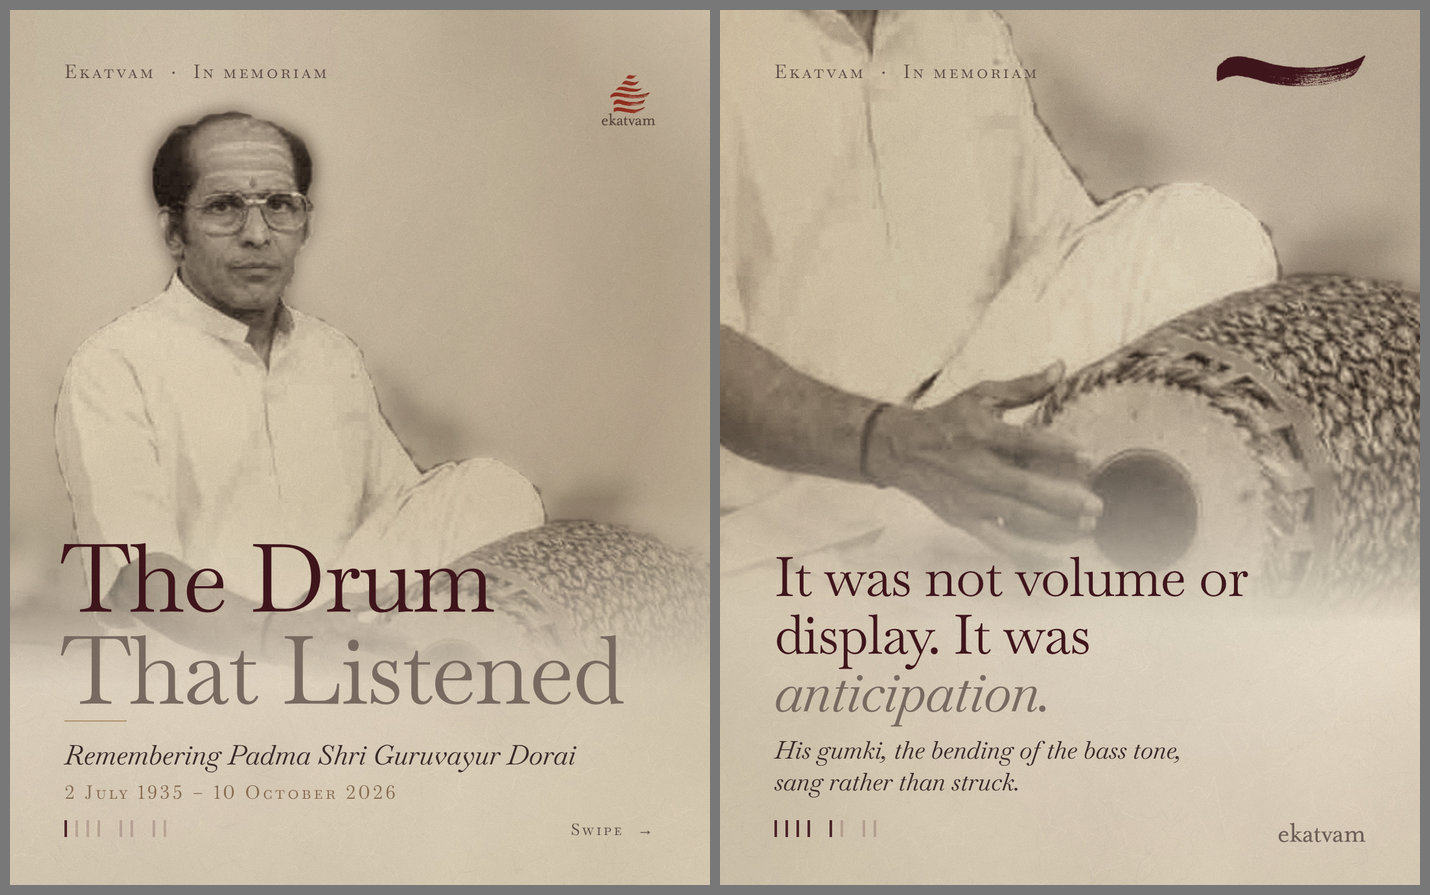
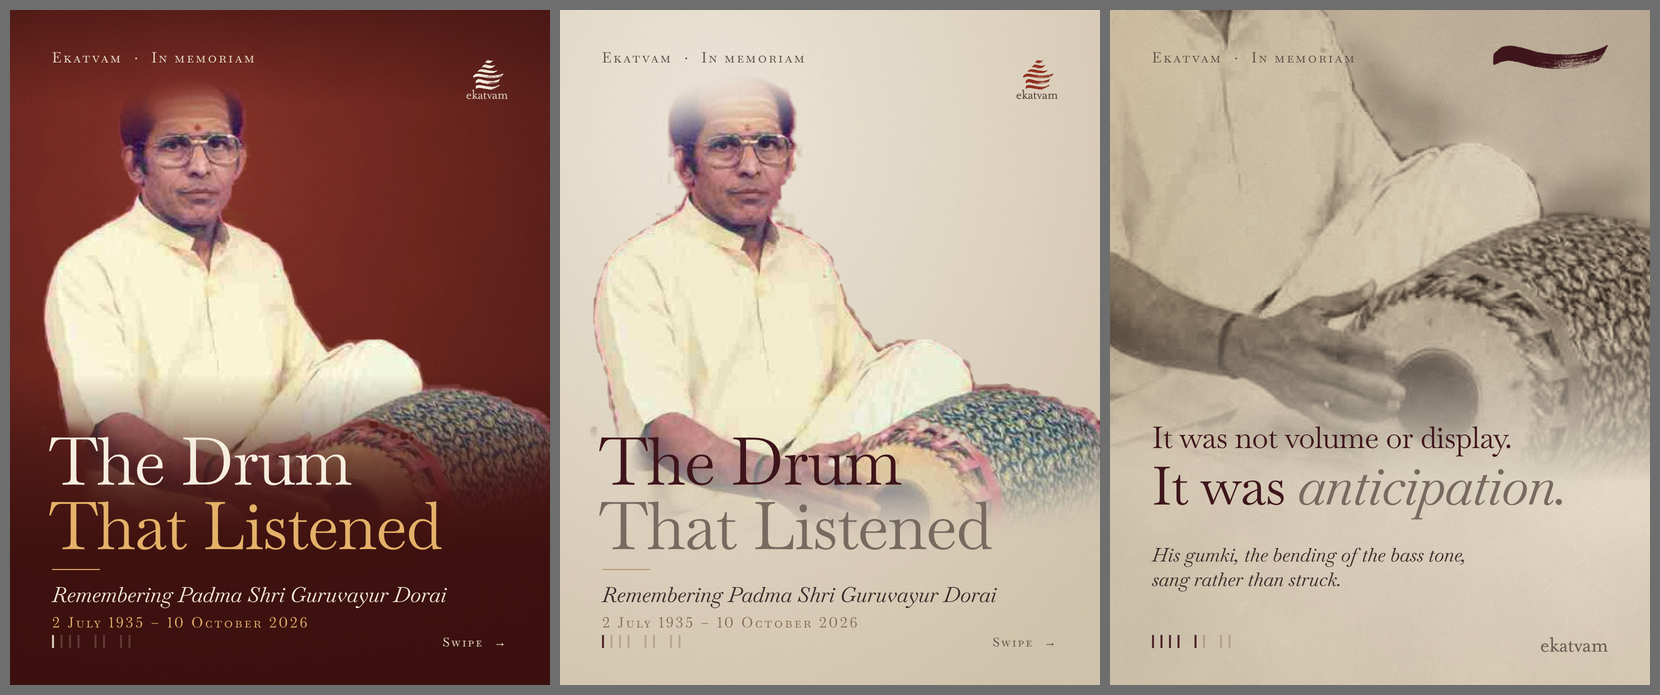
Carousel v03: burgundy real-colour cover with protected face, anticipation on one line
Claude-Session: https://claude.ai/code/session_01QTduMXH4PQaPUWUfw3WSmd

diff --git a/EKATVAM/2026-10_Guruvayur_Dorai_Tribute_Instagram_Carousel/04_WORKING/editable_files/carousel_v03.html b/EKATVAM/2026-10_Guruvayur_Dorai_Tribute_Instagram_Carousel/04_WORKING/editable_files/carousel_v03.html
@@ -30,18 +30,19 @@ h1,h2,.q{font-weight:400;letter-spacing:-.018em;color:var(--wine)}
 </style></head><body>
 <script>function ticks(n){return '<div class="ticks">'+[1,2,3,4,5,6,7,8].map(i=>'<i class="'+(i<=n?'on':'')+((i==4||i==6)?' g':'')+'"></i>').join('')+'</div>'}</script>
 
-<!-- 1 COVER -->
-<section class="slide ca" id="s1">
- <div class="ph" style="inset:0;background:url('../../03_SOURCE_ASSETS/photography/GuruvayurDorai_bw_cream.jpg') -80px -34px/1360px 1496px no-repeat;filter:contrast(1.16) brightness(.95);-webkit-mask-image:radial-gradient(ellipse 92% 72% at 36% 34%,#000 62%,transparent 100%),linear-gradient(180deg,#000 0,#000 56%,transparent 77%);-webkit-mask-composite:source-in;mask-image:radial-gradient(ellipse 92% 72% at 36% 34%,#000 62%,transparent 100%),linear-gradient(180deg,#000 0,#000 56%,transparent 77%);mask-composite:intersect"></div>
- <div class="kicker sc">Ekatvam &nbsp;·&nbsp; In memoriam</div>
- <img class="abs" src="../../02_BRAND/logos/Ekatvam_Logo_Primary_transparent.png" alt="ekatvam" style="right:84px;top:60px;width:112px">
- <h1 class="abs" style="left:78px;top:806px;font-size:146px;line-height:.97">The Drum<br><span class="tp">That Listened</span></h1>
- <div class="rule" style="left:var(--m);top:1096px"></div>
- <div class="abs" style="left:var(--m);top:1122px;font-style:italic;font-size:42px;color:var(--text)">Remembering Padma Shri Guruvayur Dorai</div>
- <div class="abs sc" style="left:var(--m);top:1188px;font-size:29px;color:var(--label)">2 July 1935 – 10 October 2026</div>
+<!-- 1 COVER A: burgundy, real colours -->
+<section class="slide" id="s1" style="background:#6C2821 url('../../03_SOURCE_ASSETS/photography/cover_colour_burgundy.jpg') 0 0/1080px 1350px">
+ <div class="abs" style="inset:0;background:linear-gradient(180deg,rgba(60,18,16,.55) 0%,rgba(60,18,16,0) 14%,rgba(60,18,16,0) 54%,rgba(60,18,16,.55) 66%,rgba(56,16,14,.9) 80%,rgba(56,16,14,.96) 100%)"></div>
+ <div class="kicker sc" style="color:#EADFCC">Ekatvam &nbsp;·&nbsp; In memoriam</div>
+ <img class="abs" src="../../02_BRAND/logos/Ekatvam_Logo_Primary_cream.png" alt="ekatvam" style="right:84px;top:60px;width:112px">
+ <h1 class="abs" style="left:78px;top:838px;font-size:132px;line-height:.98;color:#F6EEE0">The Drum<br><span style="color:#E3B16A">That Listened</span></h1>
+ <div class="abs" style="left:var(--m);top:1118px;height:2px;width:96px;background:#E3B16A"></div>
+ <div class="abs" style="left:var(--m);top:1142px;font-style:italic;font-size:42px;color:#F1E7D6">Remembering Padma Shri Guruvayur Dorai</div>
+ <div class="abs sc" style="left:var(--m);top:1206px;font-size:29px;color:#E3B16A">2 July 1935 – 10 October 2026</div>
+ <style>#s1 .ticks{color:#EADFCC}</style>
  <script>document.write(ticks(1))</script>
- <div class="abs sc" style="right:var(--m);bottom:70px;font-size:25px;color:var(--umber)">Swipe &nbsp;→</div>
- <div class="grain"></div>
+ <div class="abs sc" style="right:var(--m);bottom:70px;font-size:25px;color:#EADFCC">Swipe &nbsp;→</div>
+ <div class="grain" style="mix-blend-mode:soft-light;opacity:.5"></div>
 </section>
 
 <!-- 2 STATEMENT -->
@@ -91,8 +92,9 @@ h1,h2,.q{font-weight:400;letter-spacing:-.018em;color:var(--wine)}
  <div class="ph" style="inset:0;background:url('../../03_SOURCE_ASSETS/photography/GuruvayurDorai_bw_cream.jpg') -470px -800px/2000px 2200px no-repeat;filter:blur(.7px) contrast(1.2) brightness(.93);-webkit-mask-image:linear-gradient(180deg,#000 0,#000 44%,rgba(0,0,0,.55) 56%,transparent 70%);mask-image:linear-gradient(180deg,#000 0,#000 44%,rgba(0,0,0,.55) 56%,transparent 70%)"></div>
  <div class="kicker sc">Ekatvam &nbsp;·&nbsp; In memoriam</div>
  <img class="stroke" src="../../02_BRAND/logos/stroke5_wine.png" style="right:84px;top:70px;width:230px" alt="">
- <div class="abs q" style="left:var(--m);right:var(--m);top:830px;font-size:84px;line-height:1.06">It was not volume or display. It was <i class="tp">anticipation.</i></div>
- <div class="abs" style="left:var(--m);right:var(--m);top:1118px;font-size:38px;line-height:1.28;font-style:italic;color:var(--text)">His <i>gumki</i>, the bending of the bass tone,<br>sang rather than struck.</div>
+ <div class="abs q" style="left:var(--m);right:var(--m);top:822px;font-size:60px;line-height:1.1;white-space:nowrap">It was not volume or display.</div>
+ <div class="abs q" style="left:var(--m);right:var(--m);top:896px;font-size:106px;line-height:1.05;white-space:nowrap">It was <i class="tp">anticipation.</i></div>
+ <div class="abs" style="left:var(--m);right:var(--m);top:1066px;font-size:38px;line-height:1.28;font-style:italic;color:var(--text)">His <i>gumki</i>, the bending of the bass tone,<br>sang rather than struck.</div>
  <script>document.write(ticks(5))</script><img class="wm" src="../../02_BRAND/logos/Ekatvam_wordmark_umber.png" alt="ekatvam">
  <div class="grain"></div>
 </section>

diff --git a/EKATVAM/2026-10_Guruvayur_Dorai_Tribute_Instagram_Carousel/04_WORKING/scripts/build_cover_colour.py b/EKATVAM/2026-10_Guruvayur_Dorai_Tribute_Instagram_Carousel/04_WORKING/scripts/build_cover_colour.py
@@ -1,0 +1,46 @@
+"""Builds the real-colour portrait composite for the burgundy cover.
+The supplied photo's pink backdrop is matted out by colour (soft matte, edge pixels un-mixed), the figure is kept in
+its natural colours, and a burgundy ground is substituted. Run from the project folder."""
+from PIL import Image, ImageFilter
+import numpy as np
+rng=np.random.default_rng(41)
+P="03_SOURCE_ASSETS/photography/"
+src=np.asarray(Image.open(P+"GuruvayurDorai_portrait_supplied.jpg").convert("RGB")).astype(float)
+R,G,B=src[...,0],src[...,1],src[...,2]
+a0=np.clip(((R-G)-78)/58,0,1); yy=np.arange(2000)[:,None]; a0=a0*np.clip((1215-yy)/45,0,1)
+A=Image.fromarray((a0*255).astype(np.uint8)).filter(ImageFilter.MedianFilter(5))
+a_core=np.asarray(A.filter(ImageFilter.GaussianBlur(.8))).astype(float)/255
+ad=np.asarray(A.filter(ImageFilter.MaxFilter(7)).filter(ImageFilter.GaussianBlur(1.8))).astype(float)/255
+a=np.maximum(a_core,ad*0.97)
+bl=np.asarray(A.filter(ImageFilter.GaussianBlur(7))).astype(float)/255
+a=np.maximum(a,np.clip((bl-.30)/.22,0,1)); a=np.where(a>.72,1.0,a)
+prot=np.zeros_like(a); prot[40:640,400:830]=1          # head, face, neck: gentle matte only
+a=np.where(prot>0,a_core,a)
+fg=np.where(a[...,None]<.95,np.clip((src-a[...,None]*np.array([196,52,95.]))/np.maximum(1-a[...,None],.08),0,255),src)
+fgm=np.asarray(Image.fromarray(fg.astype(np.uint8)).filter(ImageFilter.MedianFilter(5))).astype(float)
+part=((a>.02)&(a<.95)&(prot==0))[...,None]; fg=np.where(part,fgm,fg)   # tidy specks on the drum rim, not the face
+W,H=1080,1350; S=.68; ox,oy=-80,70
+Y,X=np.mgrid[0:H,0:W]
+def sm(t): t=np.clip(t,0,1); return t*t*(3-2*t)
+def burgundy():
+    d=np.sqrt(((X-380)/760)**2+((Y-330)/900)**2)[...,None]
+    c0=np.array([0x86,0x34,0x2C],float); c1=np.array([0x6C,0x28,0x21],float); c2=np.array([0x45,0x16,0x13],float)
+    t=np.clip(d,0,1.4); base=np.where(t<.55,c0+(c1-c0)*(t/.55),c1+(c2-c1)*np.clip((t-.55)/.85,0,1))
+    n=rng.normal(0,1,(H//60+2,W//60+2)); nm=np.asarray(Image.fromarray(((n-n.min())/(n.max()-n.min())*255).astype(np.uint8)).resize((W,H),Image.BICUBIC)).astype(float)/255-.5
+    return np.clip(base*(1+nm[...,None]*.05)+rng.normal(0,2.4,(H,W))[...,None],0,255)
+bg=burgundy()
+ph=Image.fromarray(fg.astype(np.uint8)).resize((int(2000*S),)*2,Image.LANCZOS)
+al=Image.fromarray((a*255).astype(np.uint8)).resize(ph.size,Image.LANCZOS)
+pa=np.asarray(ph).astype(float); aa=np.asarray(al).astype(float)/255
+out=bg.copy()
+xs0=max(0,ox); ys0=max(0,oy); xe=min(W,ox+ph.size[0]); ye=min(H,oy+ph.size[1])
+sub=pa[ys0-oy:ye-oy, xs0-ox:xe-ox]; suba=aa[ys0-oy:ye-oy, xs0-ox:xe-ox]
+out[ys0:ye,xs0:xe]=bg[ys0:ye,xs0:xe]*suba[...,None]+sub*(1-suba[...,None])
+r=np.sqrt(((X-540)/800)**2+((Y-560)/760)**2)
+m=(1-sm((r-.72)/.30))*(1-sm((Y-800)/270))*(1-sm((Y-810)/60)*sm((200-X)/70))
+# the face is never faded: head, forehead and neck always at full strength
+hx0,hx1,hy0,hy1=120,560,80,520
+box=sm((X-hx0+30)/30)*sm((hx1+30-X)/30)*sm((Y-hy0+30)/30)*sm((hy1+30-Y)/30)
+m=np.maximum(m,box)
+out=bg*(1-m[...,None])+out*m[...,None]
+Image.fromarray(np.clip(out,0,255).astype(np.uint8)).save(P+"cover_colour_burgundy.jpg",quality=95)

diff --git a/EKATVAM/2026-10_Guruvayur_Dorai_Tribute_Instagram_Carousel/README.md b/EKATVAM/2026-10_Guruvayur_Dorai_Tribute_Instagram_Carousel/README.md
@@ -12,8 +12,11 @@
 ## Photo treatment
 Supplied photo has a saturated pink backdrop. It was converted to a warm black-and-white print. The backdrop was matted out by colour (soft matte, edge pixels un-mixed) and replaced with a gentle paper-grey so the figure melts into the cream paper. JPEG blocking in the backdrop was removed. The face and figure are untouched. Originals kept in `03_SOURCE_ASSETS/photography/`.
 
+## Respect for the subject (rule)
+The face, forehead markings (tilak), bindi and hair are never retouched, blurred, faded or recoloured. On the burgundy cover only the backdrop is re-graded; a protected head box keeps the face at full strength. Verified against the original at close zoom (`04_WORKING/iterations/forehead_check.png`). Build script: `04_WORKING/scripts/build_cover_colour.py`.
+
 ## Colour note
-v02 used deep red grounds and a red-ink portrait. Feedback was that red all over was disrespectful for a memorial, so v03 moves to cream paper and wine with a black-and-white portrait, following the feed's own parchment language. Red appears only in the logo.
+v02 used deep red grounds and a red-ink portrait. Feedback was that red all over was disrespectful for a memorial, so v03 moves to cream paper and wine for the inside pages, following the feed's parchment language. After further feedback the cover is burgundy with Dorai in his real colours (pink backdrop re-graded to the Antaranga-poster maroon `#6C2821`, cream and gold type `#E3B16A`).
 
 ## Copy edits (compressions of the supplied newsletter)
 - v02 structure: eight slides, one per beat of Adi tala (marked by the eight ticks at the foot of each page, grouped 4+2+2). The six brushstrokes of the logo arrive one per slide (1 to 6) and the full logo closes slide 8. The two lines about anticipation and the gumki now share slide 5.

diff --git a/EKATVAM/2026-10_Guruvayur_Dorai_Tribute_Instagram_Carousel/ASSET_REGISTER.md b/EKATVAM/2026-10_Guruvayur_Dorai_Tribute_Instagram_Carousel/ASSET_REGISTER.md
@@ -1,7 +1,7 @@
 # Asset Register
 | Asset | Source | Creator | Licence | Commercial use | Used in | Local path | Modification |
 |---|---|---|---|---|---|---|---|
-| Portrait of Padma Shri Guruvayur Dorai with mridangam | Supplied by client | **Not known, to confirm** | **To confirm with Ekatvam / Rajmohan Krishnan** | To confirm | Slides 1, 4 | `03_SOURCE_ASSETS/photography/GuruvayurDorai_portrait_supplied.jpg` | Warm black-and-white print, backdrop matted and replaced with paper-grey, grain, crop, soft masks. Face and figure not retouched or distorted. Variants `_neutral_mono`, `_neutral_mono_padtop`; earlier sepia variants kept as reference. |
+| Portrait of Padma Shri Guruvayur Dorai with mridangam | Supplied by client | **Not known, to confirm** | **To confirm with Ekatvam / Rajmohan Krishnan** | To confirm | Slides 1, 4 | `03_SOURCE_ASSETS/photography/GuruvayurDorai_portrait_supplied.jpg` | Slides 2 to 8 treatment: warm black-and-white print with soft masks. Cover: natural colour, backdrop only re-graded to burgundy. Face untouched. Face and figure not retouched or distorted. Variants `_neutral_mono`, `_neutral_mono_padtop`; earlier sepia variants kept as reference. |
 | Baskervville, Baskervville Italic, Baskervville SC | https://github.com/google/fonts/tree/main/ofl/baskervville | Google Fonts / Baskervville project | SIL OFL 1.1 | Yes | All slides | `02_BRAND/fonts/` | None |
 | Mrs Saint Delafield | https://github.com/google/fonts/tree/main/ofl/mrssaintdelafield | Robert Leuschke / Google Fonts | SIL OFL 1.1 | Yes | Slide 8 name | `02_BRAND/fonts/` | None |
 | Ekatvam logo | Supplied by client | Ekatvam | Client-owned | Yes | Slides 2 (stroke), 9 (full), others (wordmark) | `02_BRAND/logos/` | Strokes and wordmark separated and recoloured. Not redrawn. |

diff --git a/EKATVAM/2026-10_Guruvayur_Dorai_Tribute_Instagram_Carousel/DESIGN_SYSTEM.md b/EKATVAM/2026-10_Guruvayur_Dorai_Tribute_Instagram_Carousel/DESIGN_SYSTEM.md
@@ -1,6 +1,8 @@
 # Design System (this project, v03)
 
-**Direction:** cream paper, deep wine, a black-and-white portrait that dissolves into the paper. Modelled on the warm parchment and wine already running through Ekatvam's feed and the Entrust quote posts. Red is kept to the logo. No saturated red fields, out of respect for a memorial.
+**Cover:** burgundy `#6C2821` ground (sampled from the Antaranga poster), real-colour portrait, title cream `#F6EEE0` and gold `#E3B16A`, cream logo.
+
+**Direction (inside pages):** cream paper, deep wine, a black-and-white portrait that dissolves into the paper. Modelled on the warm parchment and wine already running through Ekatvam's feed and the Entrust quote posts. Red is kept to the logo. No saturated red fields, out of respect for a memorial.
 
 - **Canvas:** 1080 x 1350. Margin 84 px. Kicker top 76 px (29 px, Baskervville SC, tracking .14em). Footer: tala ticks left, wordmark right.
 - **Type:** Baskervville (stand-in for Mrs Eaves). Headlines 400, 80 to 146 px, tracking -.018em, wine with the second phrase in taupe, as on the Yuva Sagara posts. Italic for asides. SC for kickers, dates and ledger labels, lining figures. Mrs Saint Delafield (OFL) only for Rajmohan Krishnan's name on the last slide.

diff --git a/EKATVAM/2026-10_Guruvayur_Dorai_Tribute_Instagram_Carousel/CHANGELOG.md b/EKATVAM/2026-10_Guruvayur_Dorai_Tribute_Instagram_Carousel/CHANGELOG.md
@@ -10,3 +10,6 @@ Slide 4 simplified (six names, bigger, more air) after feedback that it was cong
 
 ## v03
 Feedback: red all over looked disrespectful for a memorial. Rebuilt in cream, wine and taupe sampled from the feed's Entrust and Yuva Sagara posts. Black-and-white portrait matted into the paper. Two ledger slides set as parchment sheets on jute. Strokes in wine. Logo in colour only on the cover (small) and last slide. Script name for Rajmohan Krishnan.
+
+## v03 revision 2
+Cover changed to burgundy with the portrait in real colours (like the Antaranga poster). First attempt faded his forehead into the background; fixed with a protected head box and verified against the original. Slide 5: 'It was anticipation.' on a single line. Cream cover alternative dropped (pink fringe).
